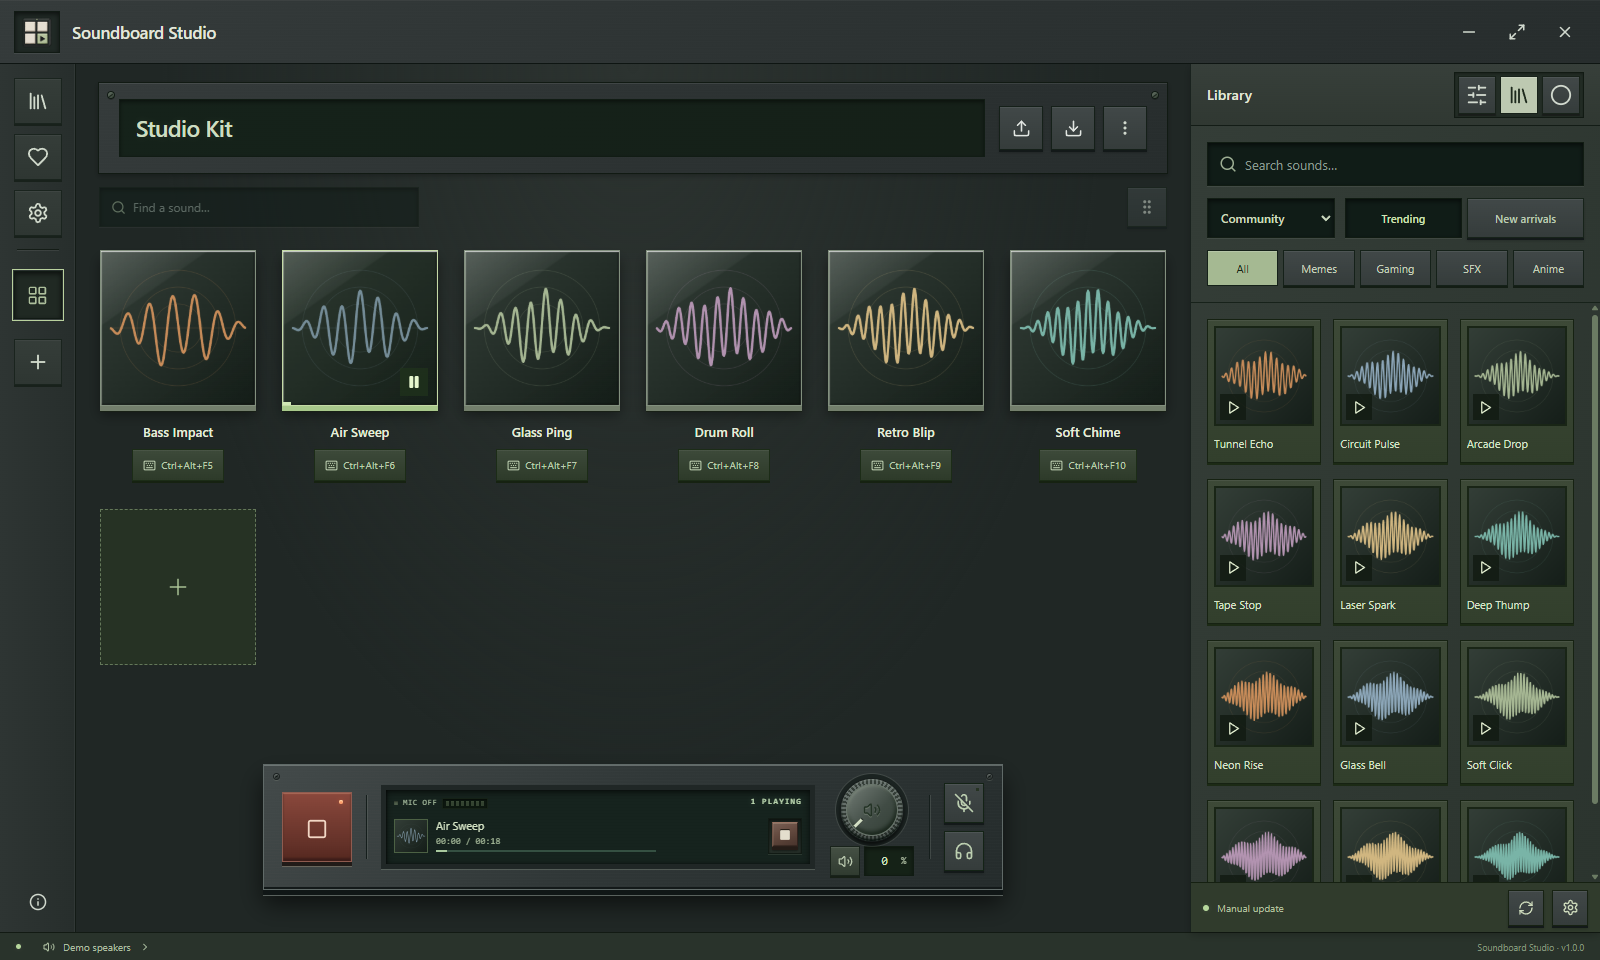
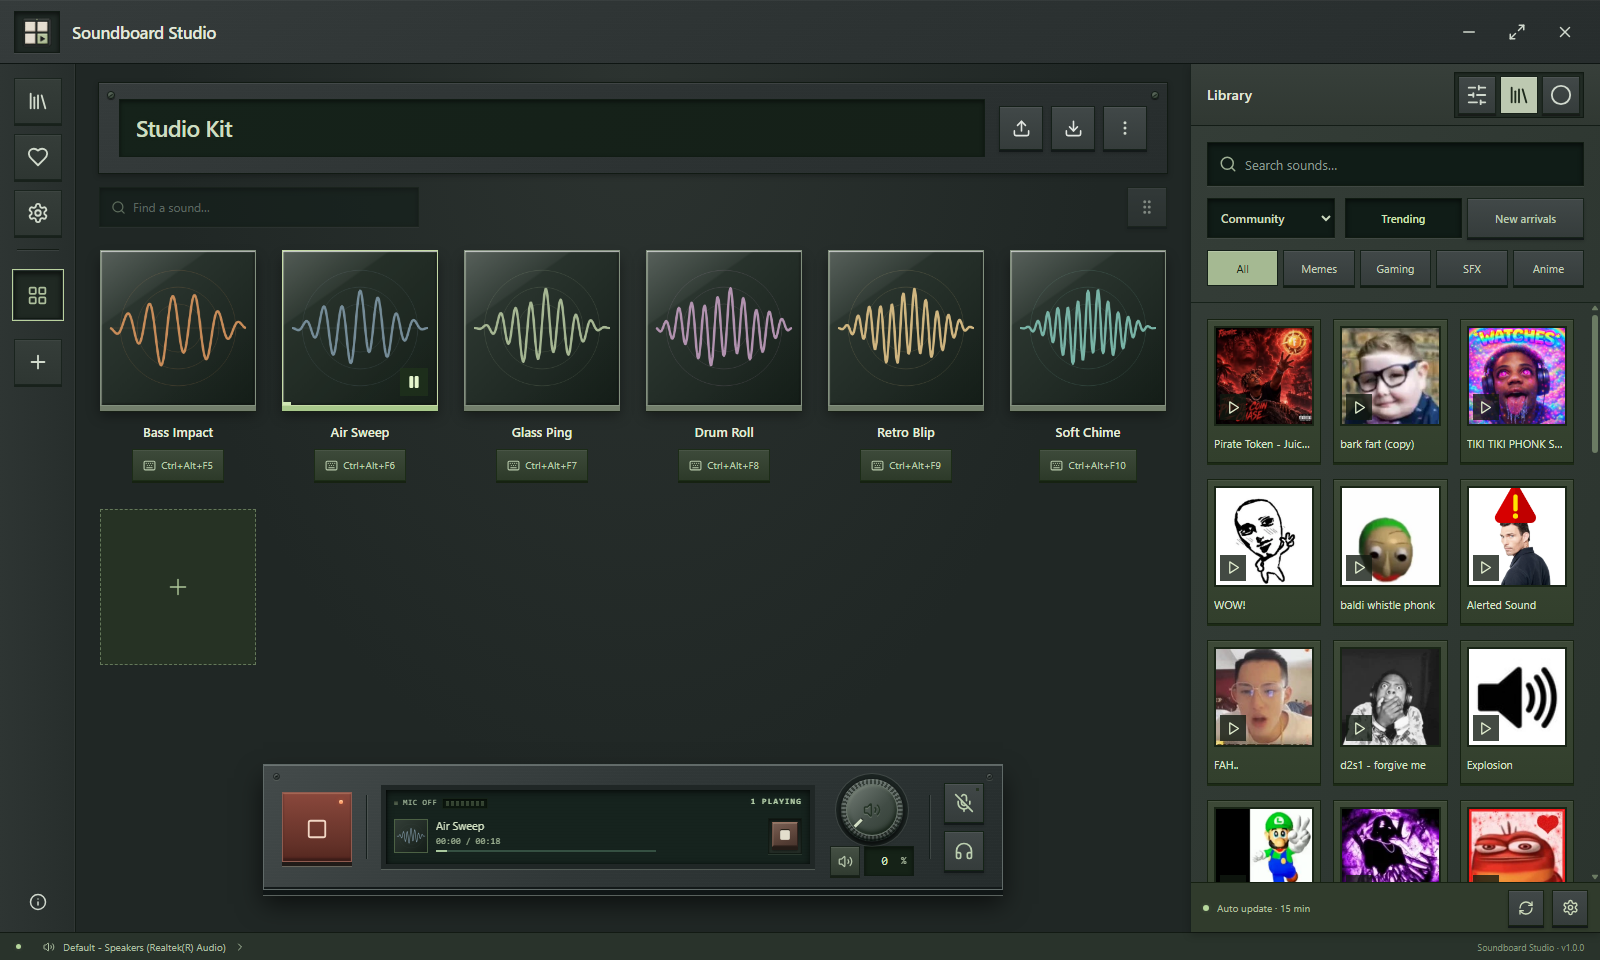
Show live Community Library in README

Changed region(s): [[0.75, 0.4688, 1.0, 0.9688], [0.75, 0.3438, 1.0, 0.4688], [0.0625, 0.9688, 0.125, 1.0]]

diff --git a/README.md b/README.md
@@ -58,7 +58,7 @@ The interface is available in English and Vietnamese.
 
 ![Community Library in Soundboard Studio showing sound effects, search filters, and the active playback dock](docs/media/community-library.png)
 
-*Community Library shown with a demo catalog.*
+*Trending sounds and cover art from the live Community catalog.*
 
 ## Play soundboard clips through your microphone
 
